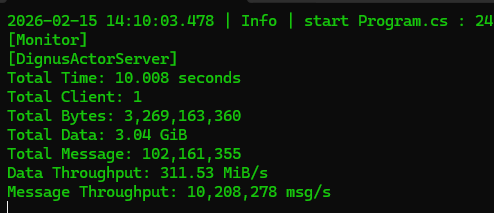
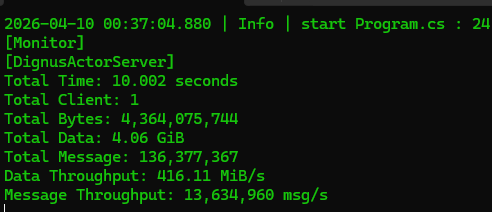
Dignus Socket 성능 개선에 따른 라이브러리 업데이트

Changed region(s): [[0.0, 0.0566, 1.0, 1.0], [0.4878, 0.0, 1.0, 0.0283], [0.0, 0.0, 0.0305, 0.0283]]

diff --git a/Dignus.Actor.Network/Options/ActorTlsOptionsBuilderExtensions.cs b/Dignus.Actor.Network/Options/ActorTlsOptionsBuilderExtensions.cs
@@ -18,31 +18,6 @@ namespace Dignus.Actor.Network.Options
             builder.Options.TlsOptions = tlsOptions;
             return builder;
         }
-        public static TBuilder UseInitialSessionPoolSize<TBuilder>(this TBuilder builder,
-            int initialSessionPoolSize)
-            where TBuilder : IActorOptionsBuilderBase<TlsServerOptions>
-        {
-            if (initialSessionPoolSize < 0)
-            {
-                throw new ArgumentOutOfRangeException("initial session pool size must be zero or greater.");
-            }
-
-            if(builder.Options.TlsOptions == null)
-            {
-                builder.Options.TlsOptions = new Sockets.Tls.TlsServerOptions(null, initialSessionPoolSize: initialSessionPoolSize);
-            }
-            else
-            {
-                builder.Options.TlsOptions = new Sockets.Tls.TlsServerOptions(builder.Options.TlsOptions.ServerCertificate,
-                    builder.Options.TlsOptions.EnabledSslProtocols,
-                    builder.Options.TlsOptions.ClientCertificateRequired,
-                    builder.Options.TlsOptions.CheckCertificateRevocation,
-                    initialSessionPoolSize,
-                    builder.Options.TlsOptions.RemoteCertificateValidationCallback);
-            }
-
-            return builder;
-        }
         public static TBuilder UseCertificate<TBuilder>(this TBuilder builder, X509Certificate2 certificate)
             where TBuilder : IActorOptionsBuilderBase<TlsServerOptions>
         {
@@ -58,7 +33,6 @@ namespace Dignus.Actor.Network.Options
                     builder.Options.TlsOptions.EnabledSslProtocols,
                     builder.Options.TlsOptions.ClientCertificateRequired,
                     builder.Options.TlsOptions.CheckCertificateRevocation,
-                    builder.Options.TlsOptions.InitialSessionPoolSize,
                     builder.Options.TlsOptions.RemoteCertificateValidationCallback);
             }
 
@@ -71,7 +45,6 @@ namespace Dignus.Actor.Network.Options
             SslProtocols enabledSslProtocols = SslProtocols.Tls12 | SslProtocols.Tls13,
             bool clientCertificateRequired = false,
             bool checkCertificateRevocation = false,
-            int initialSessionPoolSize = 0,
             RemoteCertificateValidationCallback remoteCertificateValidationCallback = null)
             where TBuilder : IActorOptionsBuilderBase<TlsServerOptions>
         {
@@ -82,7 +55,6 @@ namespace Dignus.Actor.Network.Options
                 enabledSslProtocols,
                 clientCertificateRequired,
                 checkCertificateRevocation,
-                initialSessionPoolSize,
                 remoteCertificateValidationCallback);
 
             return builder;

diff --git a/Dignus.Actor.Network/Options/ServerOptions.cs b/Dignus.Actor.Network/Options/ServerOptions.cs
@@ -9,16 +9,13 @@ namespace Dignus.Actor.Network.Options
         public ActorSystemOptions ActorSystem { get; set; } = new ActorSystemOptions();
         public ActorNetworkOptions Network { get; set; } = new ActorNetworkOptions();
 
-        public int InitialSessionPoolSize { get; set; }
-
         public static ServerOptionsBuilder Builder() => new();
         public sealed class ServerOptionsBuilder : IActorOptionsBuilderBase<ServerOptions>
         {
             private readonly ServerOptions _options = new()
             {
                 ActorSystem = new ActorSystemOptions(),
-                Network = new ActorNetworkOptions(),
-                InitialSessionPoolSize = 0
+                Network = new ActorNetworkOptions()
             };
 
             public ServerOptions Options => _options;

diff --git a/Benchmark/Multicast.TcpClient/ClientModule.cs b/Benchmark/Multicast.TcpClient/ClientModule.cs
@@ -3,19 +3,16 @@ using Dignus.Sockets.Interfaces;
 
 namespace Multicast.TcpClient
 {
-    internal class ClientModule : ClientBase
+    internal class ClientModule(SessionConfiguration sessionConfiguration) : TcpClientBase(sessionConfiguration)
     {
         private bool _isConnect = false;
-        private ISession _session;
+        private ISession? _session;
 
-        public ClientModule(SessionConfiguration sessionConfiguration) : base(sessionConfiguration)
-        {
-        }
         public void SendMessage(byte[] message, int count)
         {
             for (int i = 0; i < count; i++)
             {
-                _session.SendAsync(message);
+                _session?.SendAsync(message);
             }
         }
 

diff --git a/Benchmark/TcpTestClient/ClientModule.cs b/Benchmark/TcpTestClient/ClientModule.cs
@@ -4,15 +4,12 @@ using TcpEchoClient.Handler;
 
 namespace TcpEchoClient
 {
-    internal class ClientModule : ClientBase
+    internal class ClientModule(SessionConfiguration sessionConfiguration) : TcpClientBase(sessionConfiguration)
     {
         private bool _isConnect = false;
         private ISession _session;
         private EchoHandler _echoHandler;
 
-        public ClientModule(SessionConfiguration sessionConfiguration) : base(sessionConfiguration)
-        {
-        }
         public void SendEcho(string message)
         {
             _echoHandler.SendEcho(message);

diff --git a/Dignus.Actor.Network/Hosts/ActorTcpHost.cs b/Dignus.Actor.Network/Hosts/ActorTcpHost.cs
@@ -5,13 +5,13 @@
 using Dignus.Actor.Network.Internals;
 using Dignus.Sockets;
 using Dignus.Sockets.Interfaces;
+using Dignus.Sockets.Tcp;
 
 namespace Dignus.Actor.Network.Hosts
 {
     internal class ActorTcpHost(IActorHostHandler handler,
-        SessionConfiguration sessionConfiguration,
-        int initialSessionPoolSize
-        ) : ServerBase(sessionConfiguration, initialSessionPoolSize)
+        SessionConfiguration sessionConfiguration
+        ) : TcpServerBase(sessionConfiguration)
     {
         protected override void OnAccepted(ISession session)
         {

diff --git a/Dignus.Actor.Network/TcpServerBase.cs b/Dignus.Actor.Network/TcpServerBase.cs
@@ -70,8 +70,7 @@ namespace Dignus.Actor.Network
             _actorPacketProcessor = new ActorPacketProcessor(_actorNetworkOptions.Decoder, this);
 
             _actorTcpHost = new ActorTcpHost(this,
-                CreateHostConfigurationFactory(options),
-                options.InitialSessionPoolSize);
+                CreateHostConfigurationFactory(options));
         }
 
         private void OnDeadLetterDetected(DeadLetterMessage obj)

diff --git a/Benchmark/TlsActorServer/Networks/Codecs/MessageSerializer.cs b/Benchmark/TlsActorServer/Networks/Codecs/MessageSerializer.cs
@@ -15,7 +15,11 @@ namespace TlsActorServer.Networks.Codecs
 
         public ArraySegment<byte> MakeSendBuffer(INetworkActorMessage packet)
         {
-            return new ArraySegment<byte>();
+            if (packet is BinaryMessage binaryMessage)
+            {
+                return binaryMessage.Data;
+            }
+            return null!;
         }
 
         public ArraySegment<byte> MakeSendBuffer(IPacket packet)

diff --git a/publish/Dignus.Actor.Network.md b/publish/Dignus.Actor.Network.md
@@ -40,13 +40,13 @@ Client send -> Server-side processing -> Response return
 ### Result
 
 ```
-Total Time: 10.008 seconds
+Total Time: 10.002 seconds
 Total Client: 1
-Total Bytes: 3,269,163,360
-Total Data: 3.04 GiB
-Total Message: 102,161,355
-Data Throughput: 311.53 MiB/s
-Message Throughput: 10,208,278 msg/s
+Total Bytes: 4,364,075,744
+Total Data: 4.06 GiB
+Total Message: 136,377,367
+Data Throughput: 416.11 MiB/s
+Message Throughput: 13,634,960 msg/s
 ```
 
 ---
@@ -105,13 +105,13 @@ Client send -> Server-side processing -> Response return
 ### Result
 
 ```
-Total Time: 10.002 seconds
+Total Time: 10.011 seconds
 Total Client: 1
-Total Bytes: 2,482,299,424
-Total Data: 2.31 GiB
-Total Message: 77,571,857
-Data Throughput: 236.68 MiB/s
-Message Throughput: 7,755,636 msg/s
+Total Bytes: 3,531,230,304
+Total Data: 3.29 GiB
+Total Message: 110,350,947
+Data Throughput: 336.41 MiB/s
+Message Throughput: 11,023,486 msg/s
 ```
 
 ---
